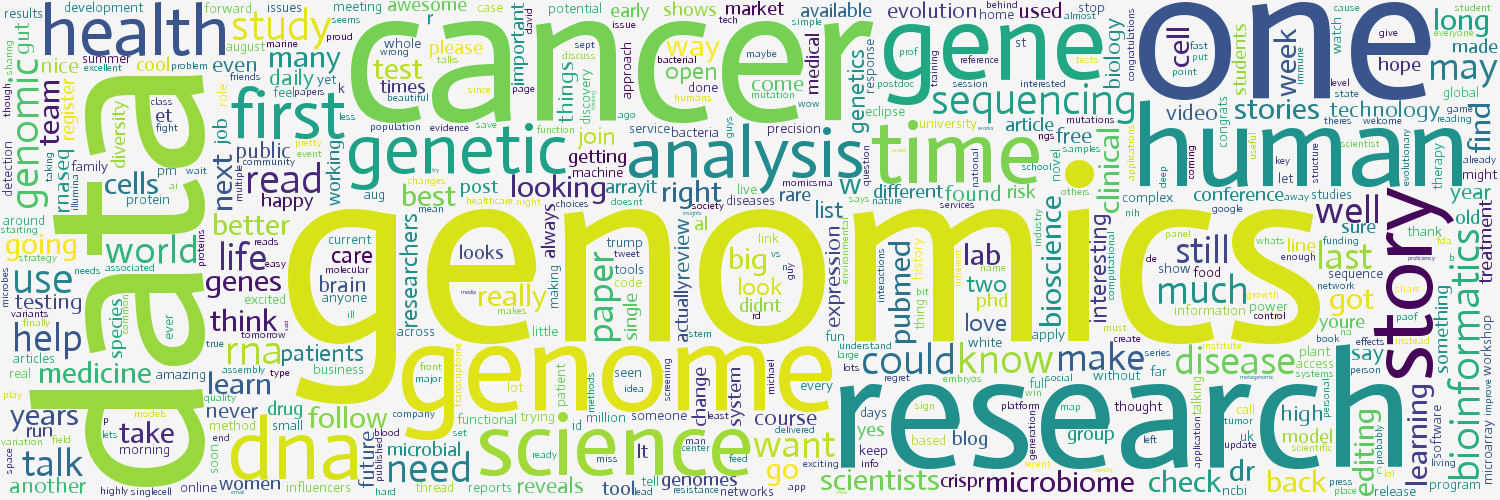
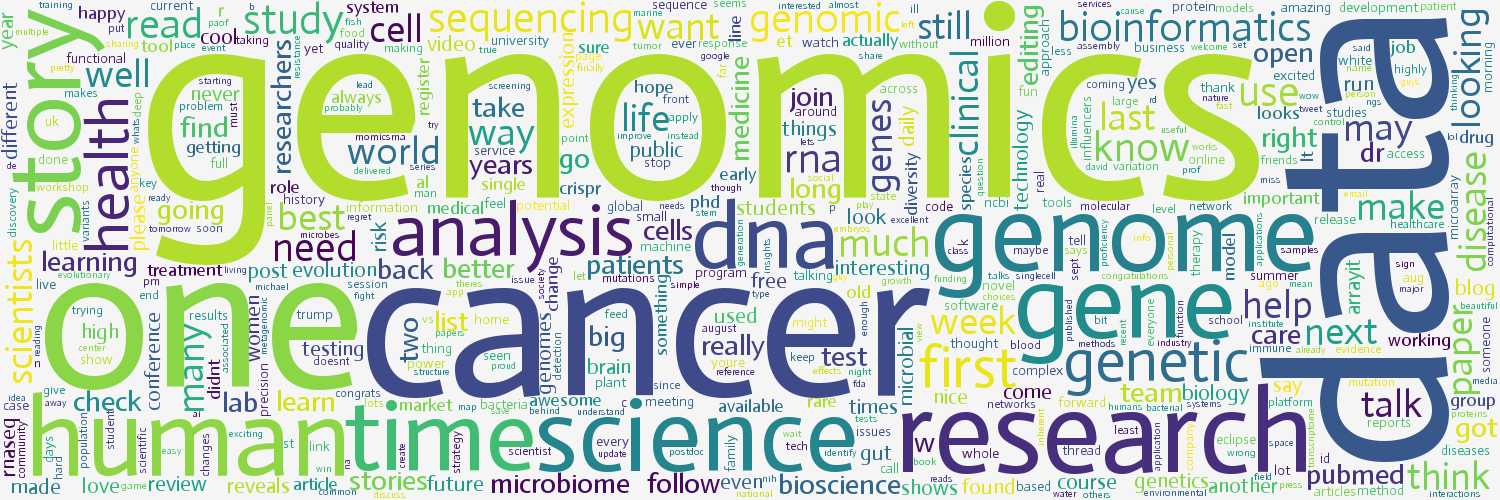
aug2017

diff --git a/main.py b/main.py
@@ -54,7 +54,7 @@ for row in c.execute('SELECT * FROM tweetscapture ORDER BY Date DESC'):
         tweetID = row[3]
         tweetText = tweet_clean(row[4].lower())
         stopWords = list(stopwords.words("english"))
-        myStopWords = ['also', 'bad', 'cant', 'dont', 'day', 'great', 'get', 'good', 'hear', 'here', 'ive', 'im', 'like', 'latest', 'new', 'news', 'oh',
+        myStopWords = ['also', 'bad', 'cant', 'could', 'dont', 'day', 'great', 'get', 'good', 'hear', 'here', 'ive', 'im', 'like', 'latest', 'new', 'news', 'oh',
                        'people', 'see', 'today', 'top', 'th', 'twitter', 'thats', 'thanks', 'us', 'using', 'work', 'would','x']
         stopWords = stopWords + myStopWords
         words = word_tokenize(tweetText)
